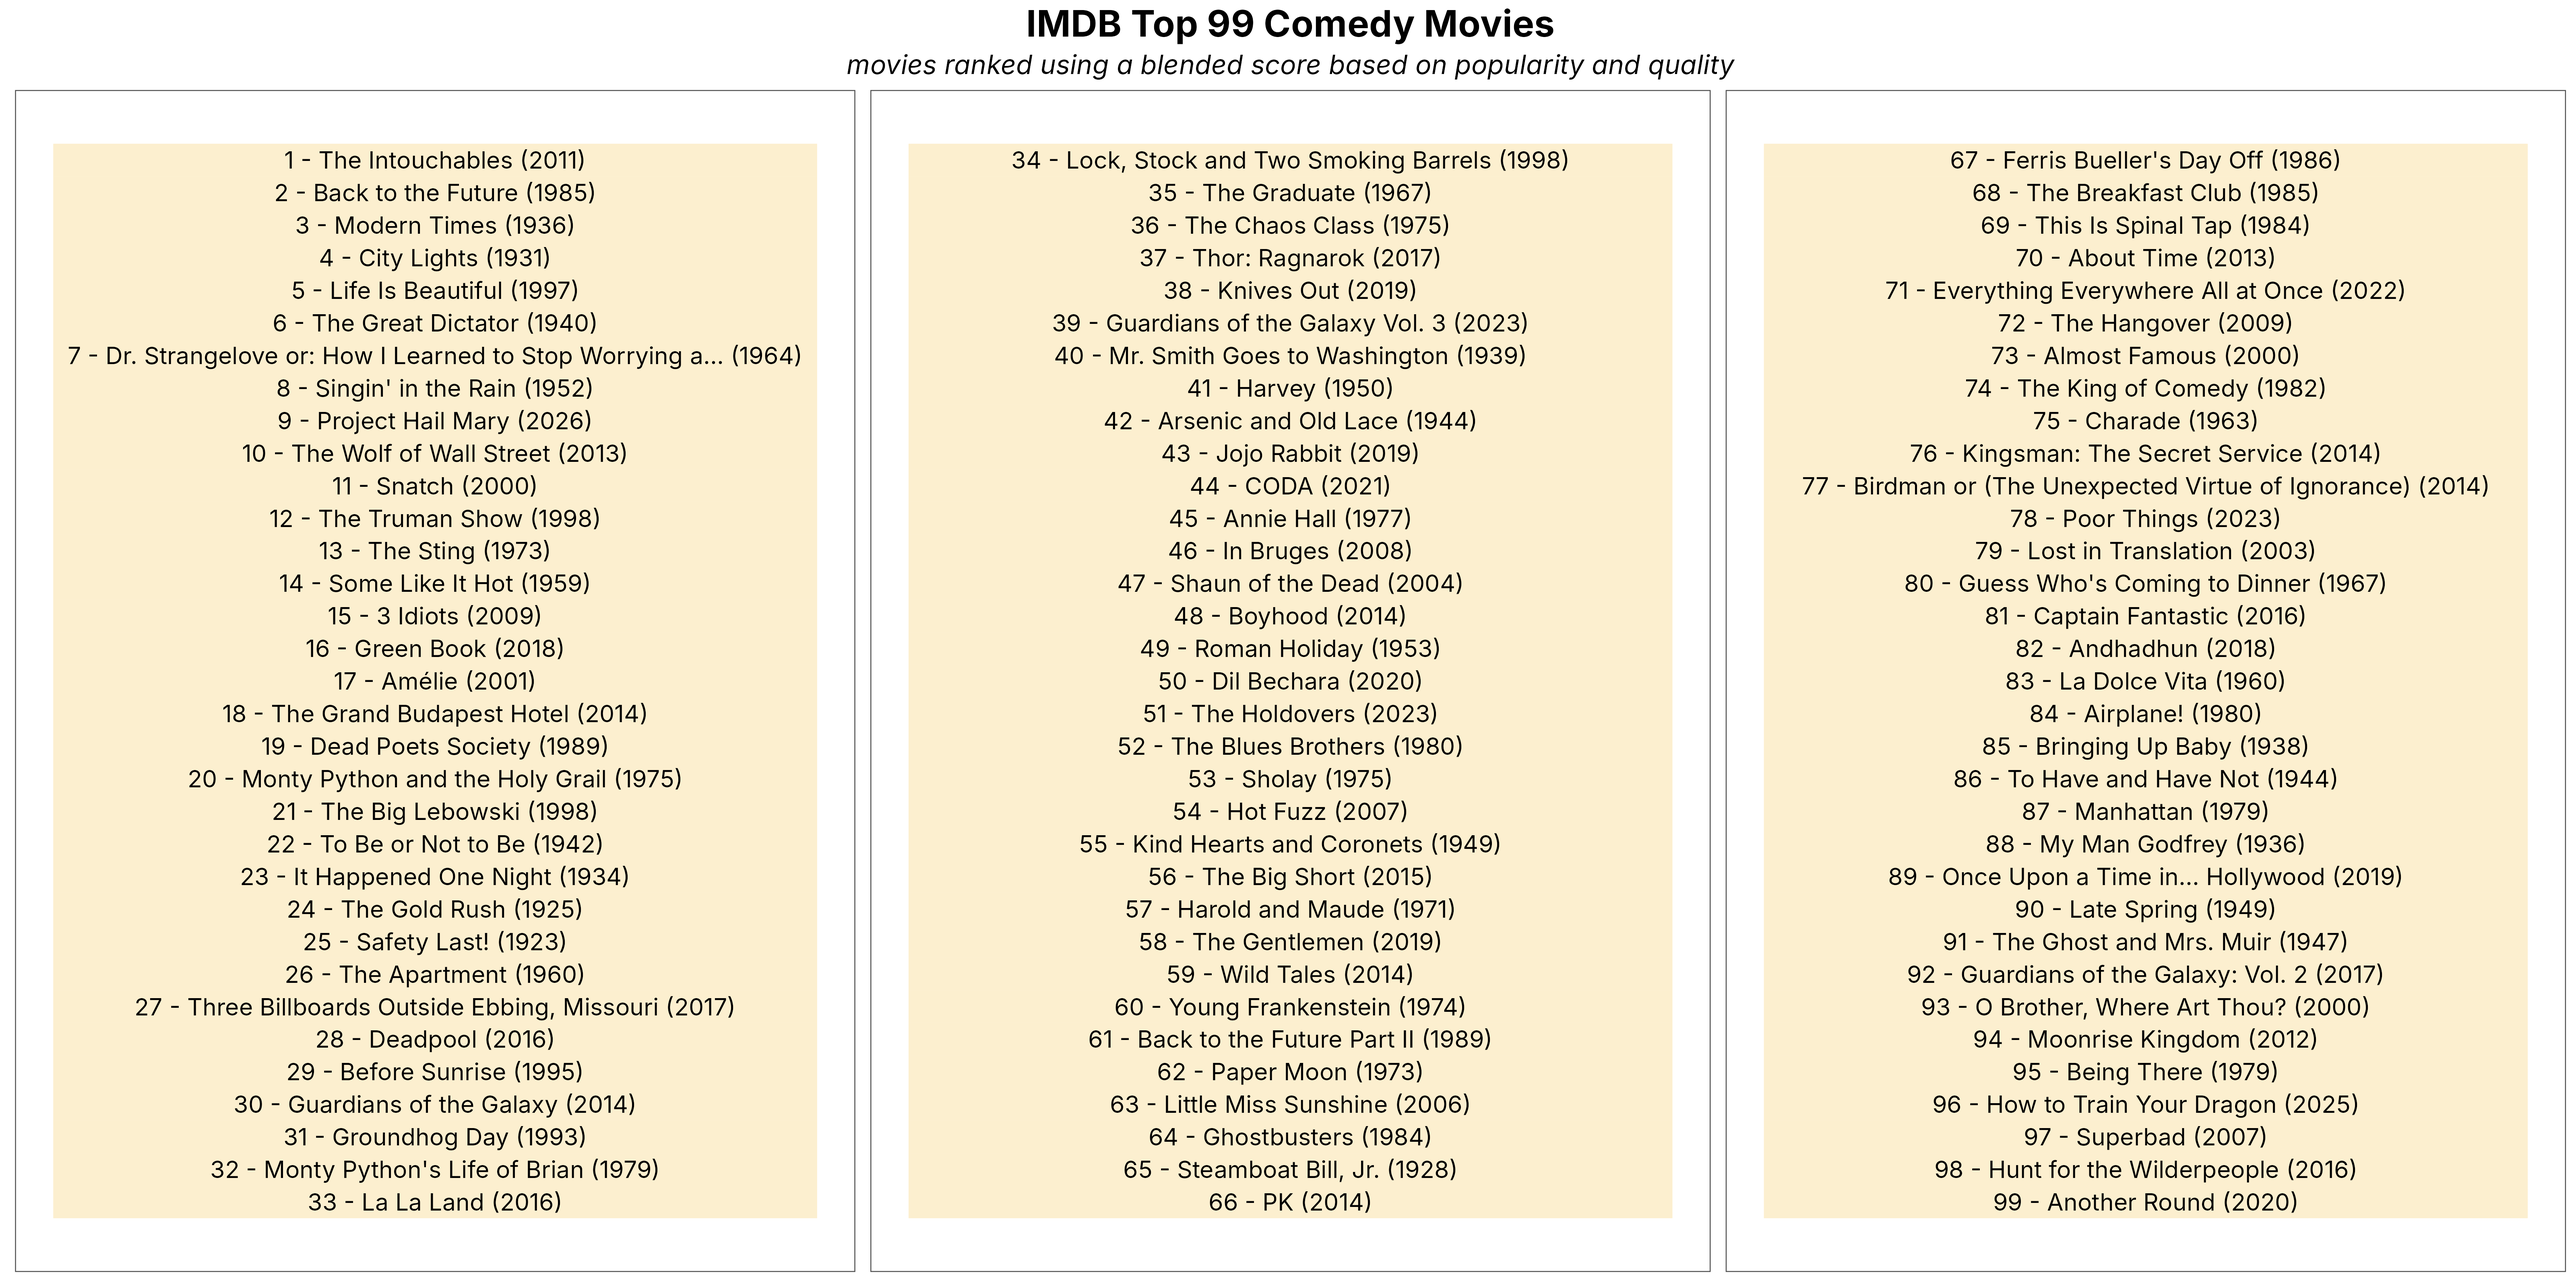
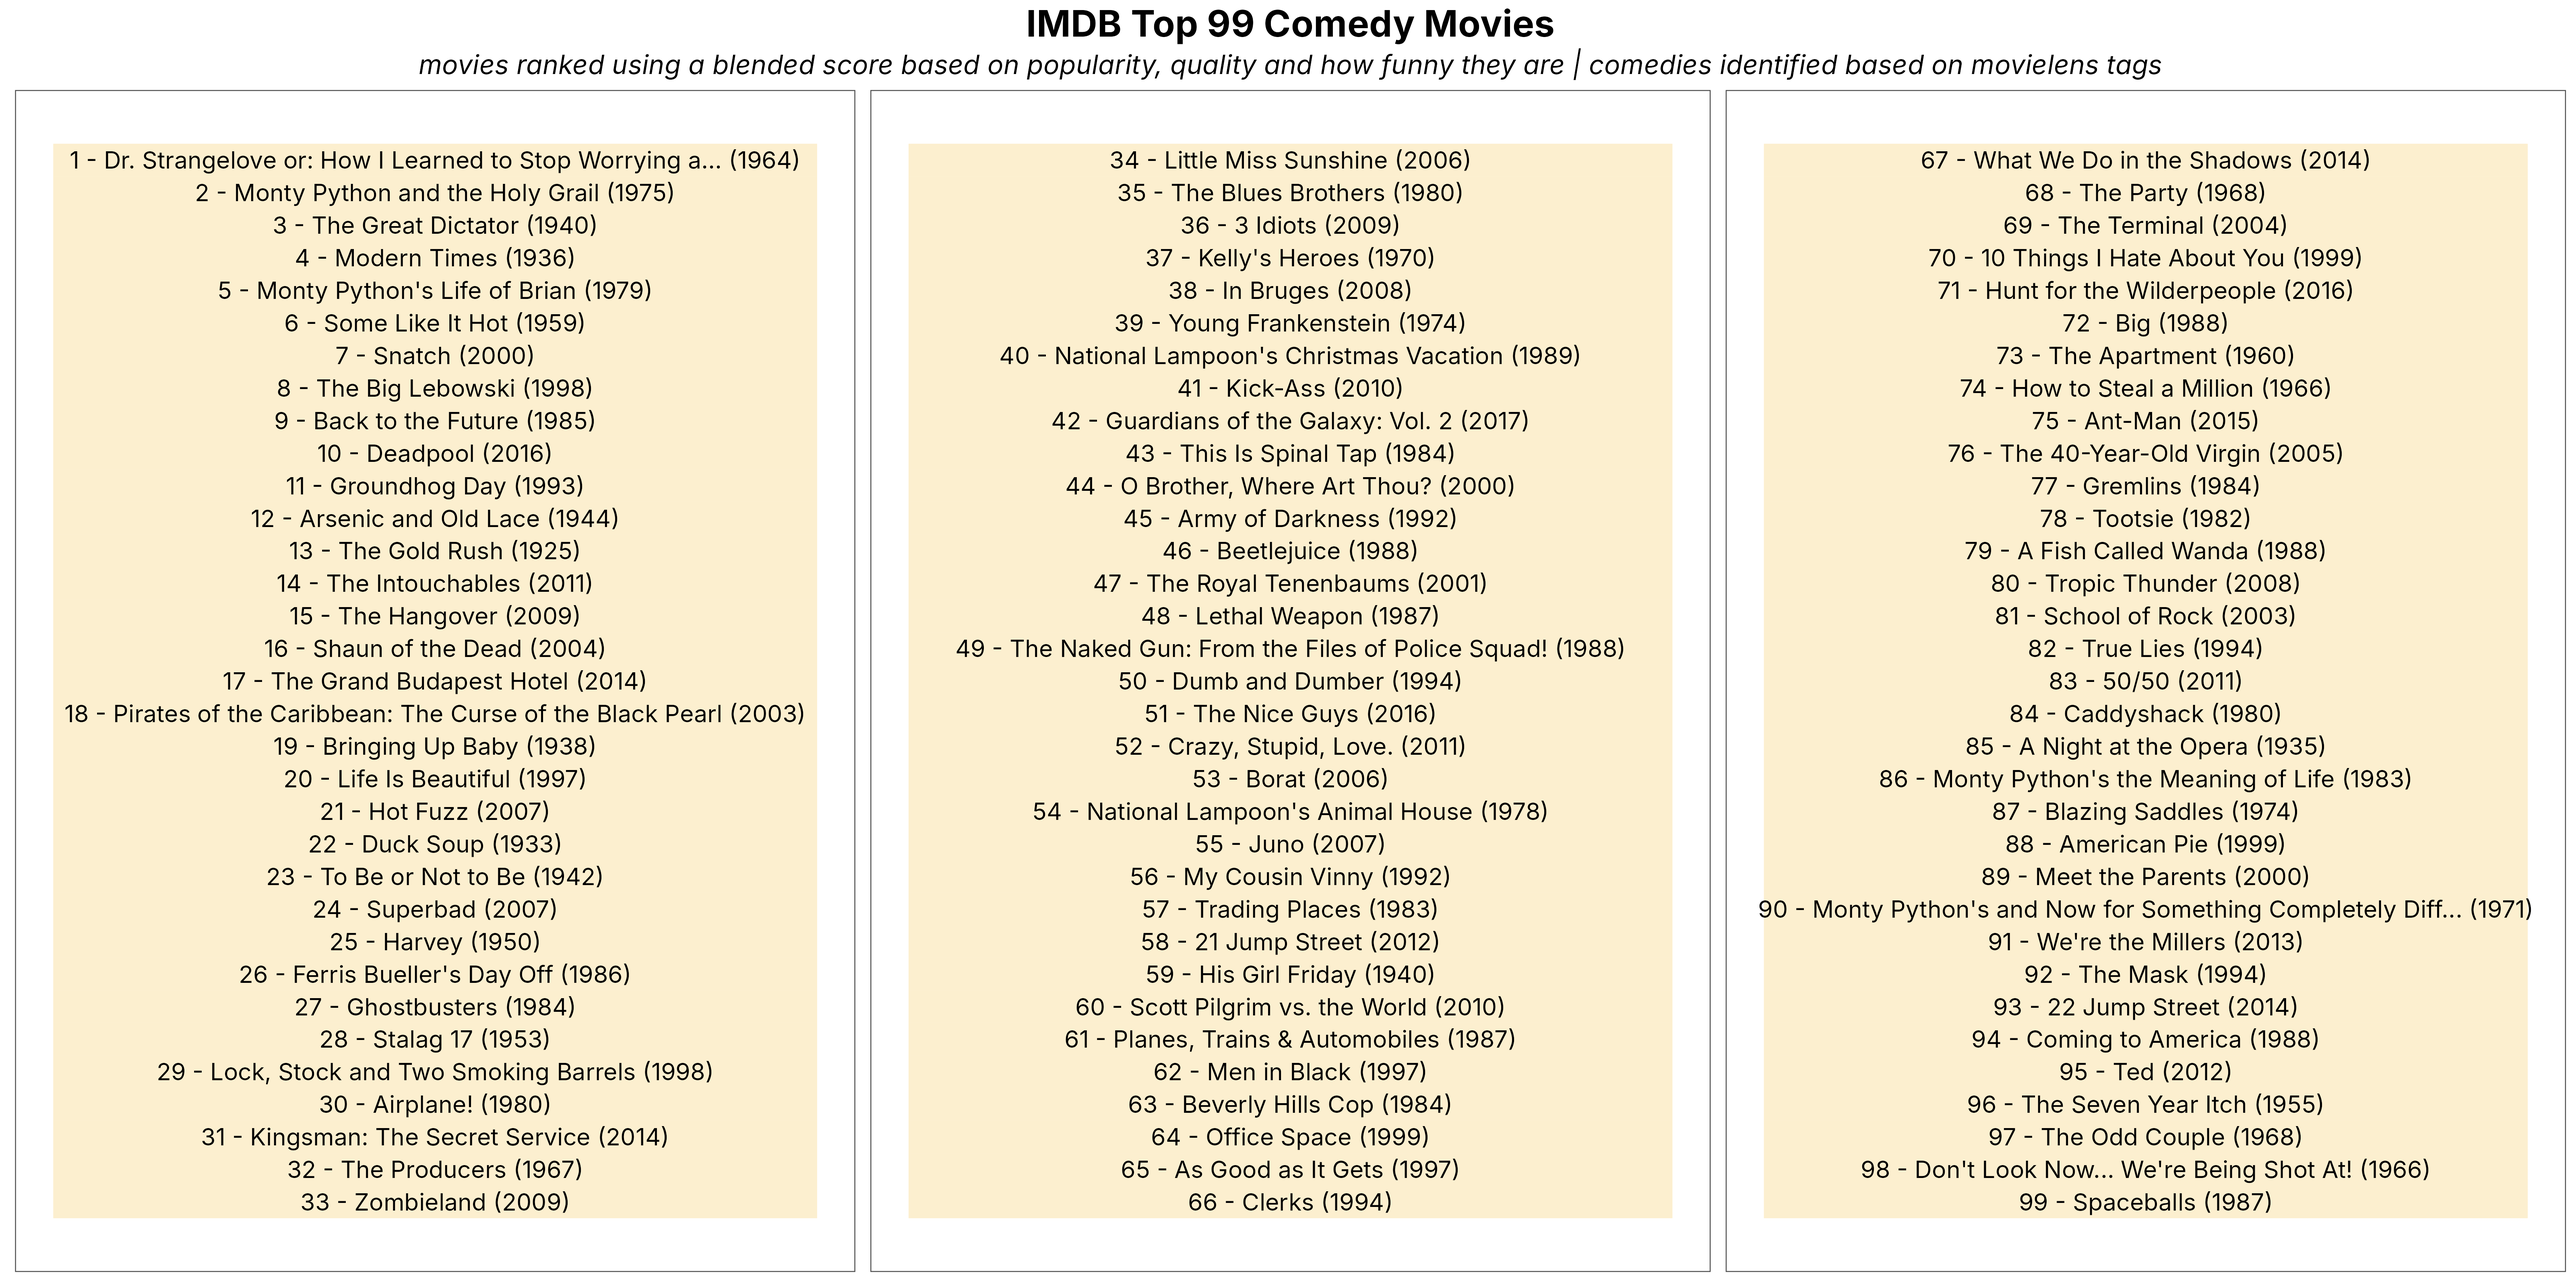
Pick comedies by MovieLens tag genome, and nudge by how funny they are
IMDb's genre tags list every genre a movie touches, so comedy-dramas
counted as comedies and, rating higher, crowded the top: The
Intouchables was first and 55 of the top 99 were also tagged Drama.

- A movie now counts as a comedy if the 25M tag genome scores it 0.8 or
  more for "comedy", with the same other filters as before
- A movie loses up to 5% of its score for being less funny, by the
  genome's "hilarious" relevance. The top of the list is only a few
  percent apart, so this reorders it without upending it: The
  Intouchables (0.45) drops to 14th, and Chaplin keeps his place

1,136 comedies qualify, from 1923 to 2019; the genome stops in 2019.
Dr. Strangelove is first. Two runs give the same chart.

Claude-Session: https://claude.ai/code/session_0182aehdMig3wBokXQpTfw3E

diff --git a/README.md b/README.md
@@ -25,8 +25,9 @@ install and no password to set. The first run downloads about 1 GB of IMDb
 files and takes several minutes; after that, scripts reuse the database file
 and start straight away.
 
-MovieLens is only loaded by the two scripts that use it, `top_99_slashers.R`
-and `top_99_sports_movies.R`, which call `connect_movies_db(movielens = TRUE)`.
+MovieLens is only loaded by the three scripts that use it,
+`top_99_slashers.R`, `top_99_sports_movies.R` and `top_99_comedy.R`, which call
+`connect_movies_db(movielens = TRUE)`.
 If the private `loserpoints/private-data` repo is cloned next to this one, its
 copy of both releases is used, already converted to Parquet; set
 `MOVIELENS_DIR` to point at another copy of its `movielens` folder. Otherwise
@@ -61,7 +62,7 @@ The analyses live in `scripts/analysis/`:
 | `horror_ratings_scatter.R` | How a single year's horror releases spread across popularity and rating |
 | `horror_franchises.R` | How franchises hold up across sequels |
 | `top_99_sports_movies.R` | The same treatment applied to sports movies |
-| `top_99_comedy.R` | The same treatment applied to comedies |
+| `top_99_comedy.R` | The same treatment applied to comedies, picked and nudged by how funny MovieLens tags say they are |
 | `tv_series_ratings.R` | Episode ratings across the run of a series |
 
 `horror_franchises.R`, `top_99_sports_movies.R`, `top_99_comedy.R` and
